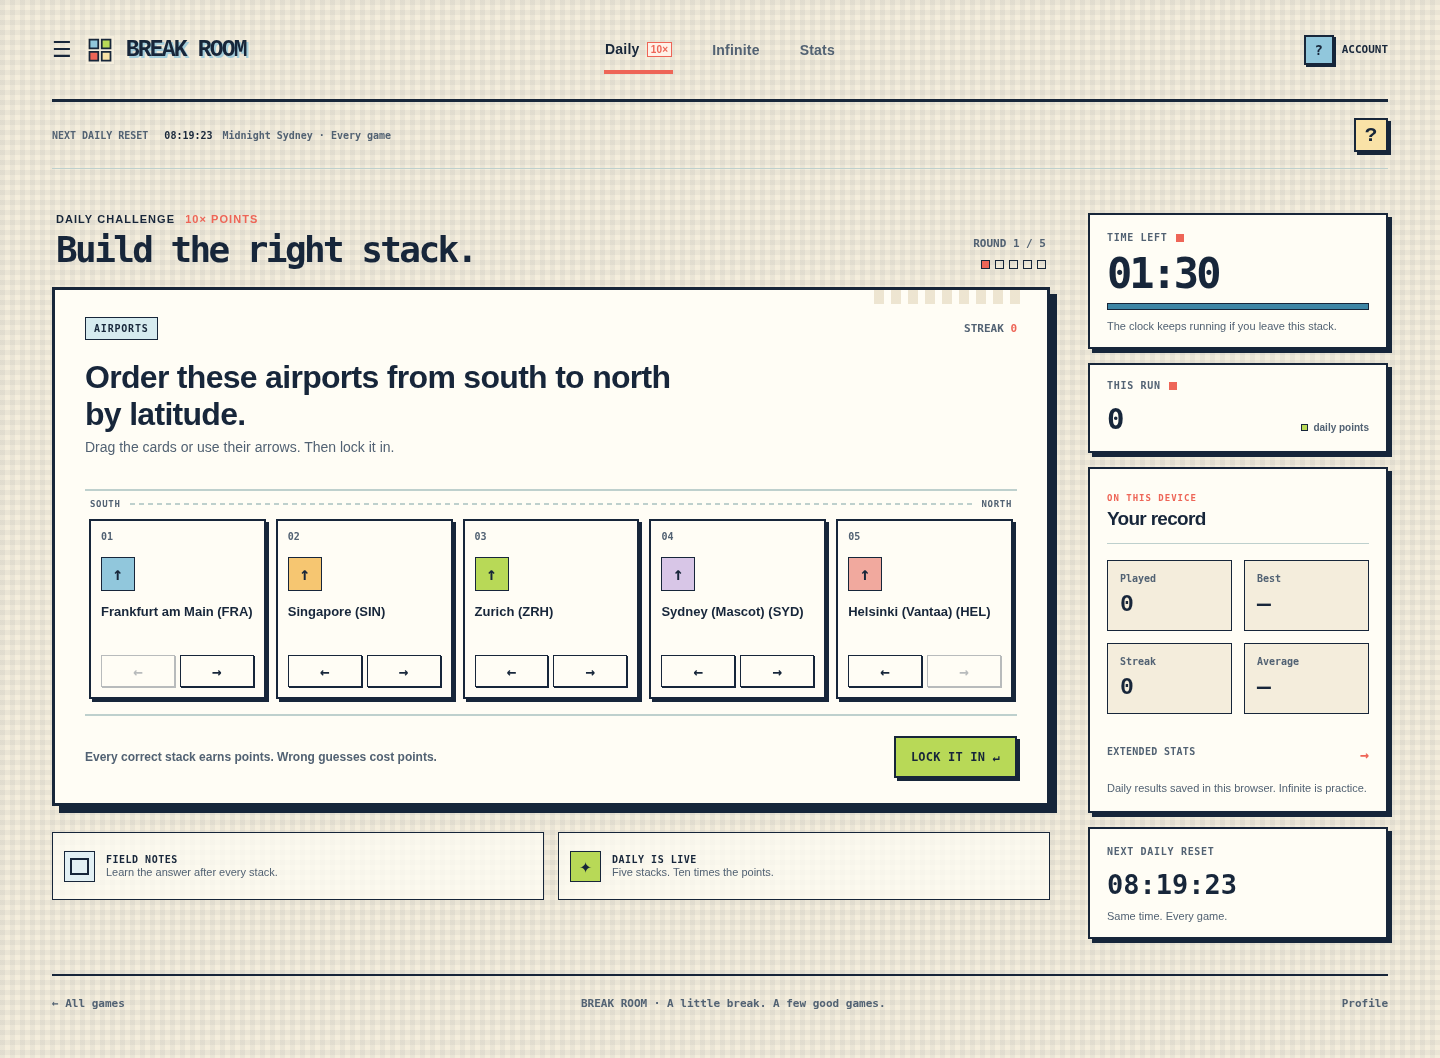
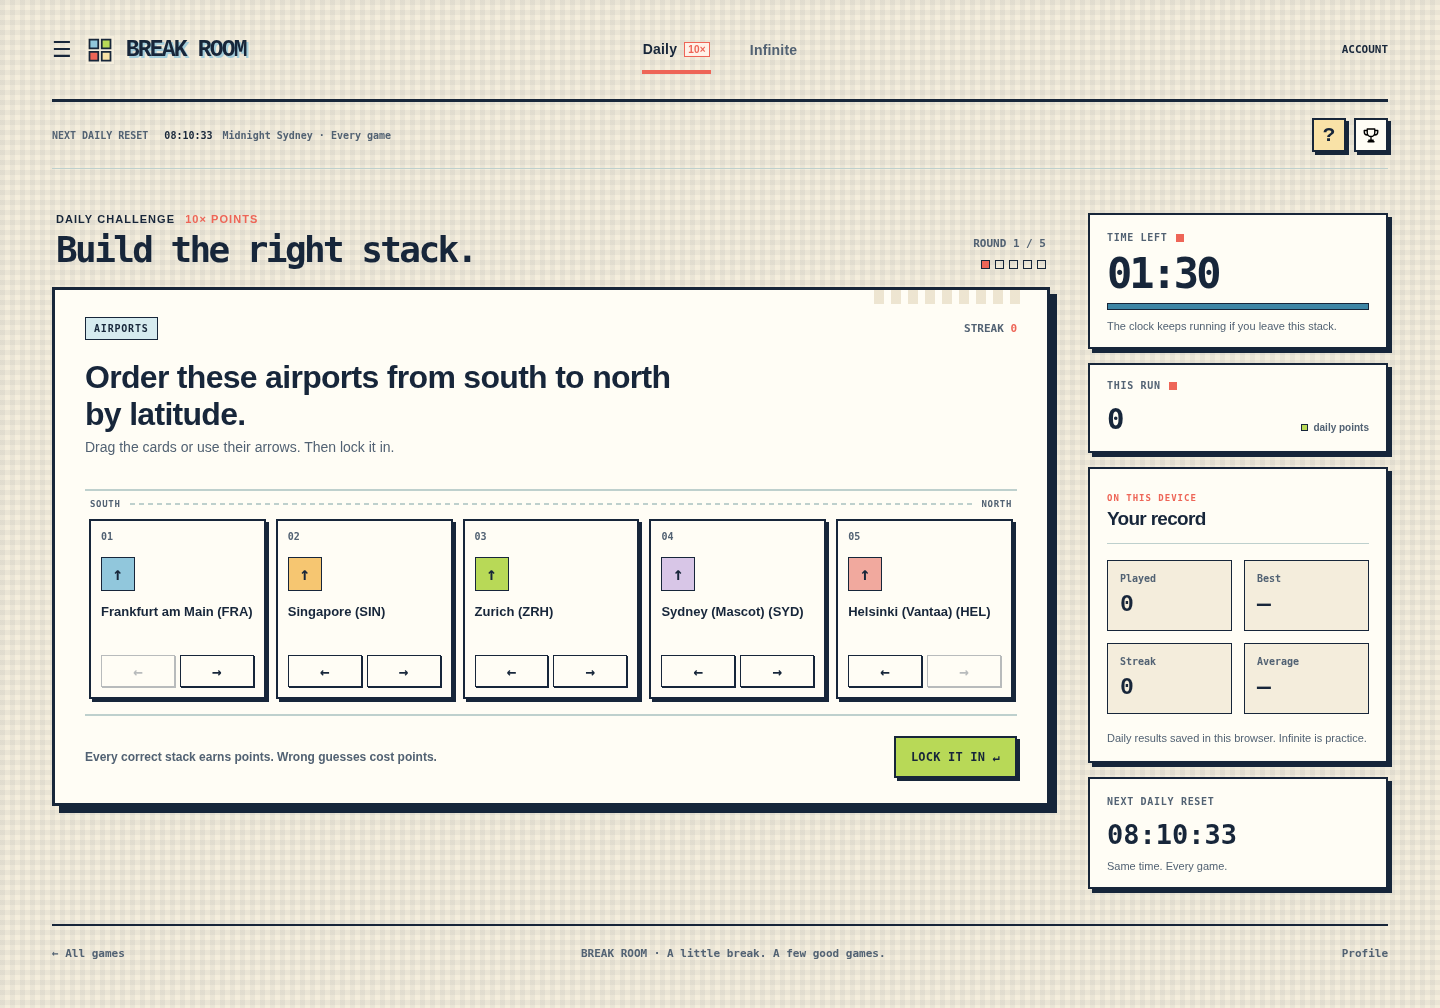
Simplify Stack Up panels and move trophy stats beside help

diff --git a/games/stack-up/index.html b/games/stack-up/index.html
@@ -8,9 +8,9 @@
   <meta name="description" content="Sort five familiar things against the clock. Play a fresh daily challenge or free Infinite practice at Break Room."><link rel="icon" href="../../assets/break-room-icon.svg"><link rel="stylesheet" href="../../stack-layout.css"><link rel="stylesheet" href="stack-up.css"><script src="../../daily-clock.js"></script><script defer="" src="../../navigation.js"></script><script defer src="legacy-stacks.js"></script><script defer="" src="stacks.js"></script><script defer="" src="stack-up.js"></script></head>
   <body>
     <div class="site-frame">
-      <header class="topbar"><div class="header-brand"><button id="game-menu-toggle" type="button" aria-label="Open games menu" aria-controls="game-menu" aria-expanded="false">☰</button><a class="brand" href="../../index.html"><img src="../../assets/break-room-icon.svg" width="28" height="28" alt="">BREAK ROOM</a></div><nav class="main-nav" aria-label="Game mode"><button class="nav-link active" data-mode="daily" type="button" aria-pressed="true">Daily <em>10×</em></button><button class="nav-link" data-mode="infinite" type="button" aria-pressed="false">Infinite</button><button id="stats-open" class="nav-link" type="button">Stats</button></nav><a class="player-chip" href="../../login.html"><span class="mini-avatar">?</span><span>ACCOUNT</span></a></header>
+      <header class="topbar"><div class="header-brand"><button id="game-menu-toggle" type="button" aria-label="Open games menu" aria-controls="game-menu" aria-expanded="false">☰</button><a class="brand" href="../../index.html"><img src="../../assets/break-room-icon.svg" width="28" height="28" alt="">BREAK ROOM</a></div><nav class="main-nav" aria-label="Game mode"><button class="nav-link active" data-mode="daily" type="button" aria-pressed="true">Daily <em>10×</em></button><button class="nav-link" data-mode="infinite" type="button" aria-pressed="false">Infinite</button></nav><a class="player-chip" href="../../login.html"><span>ACCOUNT</span></a></header>
 
-      <div class="utility-strip"><p>NEXT DAILY RESET <strong data-daily-countdown="">--:--:--</strong><span>Midnight Sydney · Every game</span></p><button class="mini-tool" id="help-open" type="button" aria-label="How to play">?</button></div><p id="save-warning" role="status" hidden="">Saving is unavailable in this browser. Keep this tab open to preserve your current run.</p><p id="day-notice" role="status" hidden="">A new daily is ready. Your previous daily has ended.</p><main id="play">
+      <div class="utility-strip"><p>NEXT DAILY RESET <strong data-daily-countdown="">--:--:--</strong><span>Midnight Sydney · Every game</span></p><div class="game-tools"><button class="mini-tool" id="help-open" type="button" aria-label="How to play">?</button><button class="mini-tool stats-tool" id="stats-open" type="button" aria-label="Extended game stats" title="Extended game stats"><img src="../../assets/icons/trophy.svg" alt=""></button></div></div><p id="save-warning" role="status" hidden="">Saving is unavailable in this browser. Keep this tab open to preserve your current run.</p><p id="day-notice" role="status" hidden="">A new daily is ready. Your previous daily has ended.</p><main id="play">
         <section class="intro-screen" id="intro-screen" aria-labelledby="intro-title">
           <div class="intro-copy">
             <p class="intro-kicker"><span></span>A QUICK GAME OF GOOD JUDGEMENT</p>
@@ -73,17 +73,6 @@
               <button id="check-button" class="check-button" type="button">LOCK IT IN <span>↵</span></button>
             </div>
           </section>
-
-          <section class="game-notes">
-            <div class="note-card">
-              <span class="note-icon pixel-book" aria-hidden="true"></span>
-              <p><b>FIELD NOTES</b><br>Learn the answer after every stack.</p>
-            </div>
-            <div class="note-card daily-note" id="daily-note">
-              <span class="note-icon pixel-star" aria-hidden="true">✦</span>
-              <p><b>DAILY IS LIVE</b><br>Five stacks. Ten times the points.</p>
-            </div>
-          </section>
         <section id="daily-summary" class="game-board" hidden="" aria-labelledby="summary-title"><span class="tiny-label">DAILY COMPLETE</span><h2 id="summary-title">A tidy little stack.</h2><p id="summary-score"></p><p id="summary-detail"></p><div class="summary-actions"><button id="summary-copy" class="check-button" type="button">COPY RESULT</button><button id="summary-infinite" class="check-button" type="button">PLAY INFINITE →</button><a class="text-link" href="../../index.html">All games</a></div><p id="share-status" role="status"></p></section></section>
 
         <aside class="side-column" aria-label="Game information">
@@ -100,7 +89,7 @@
             <p><span class="score-dot"></span><span id="score-caption">daily points</span></p>
           </section>
 
-          <section class="leaderboard-card" id="your-record"><div class="leaderboard-heading"><div><span class="tiny-label">ON THIS DEVICE</span><h2>Your record</h2></div></div><dl class="record-grid"><div><dt>Played</dt><dd id="record-played">0</dd></div><div><dt>Best</dt><dd id="record-best">—</dd></div><div><dt>Streak</dt><dd id="record-streak">0</dd></div><div><dt>Average</dt><dd id="record-average">—</dd></div></dl><button class="view-ranks" id="sidebar-stats-open" type="button">EXTENDED STATS <span>→</span></button><p class="local-note">Daily results saved in this browser. Infinite is practice.</p></section>
+          <section class="leaderboard-card" id="your-record"><div class="leaderboard-heading"><div><span class="tiny-label">ON THIS DEVICE</span><h2>Your record</h2></div></div><dl class="record-grid"><div><dt>Played</dt><dd id="record-played">0</dd></div><div><dt>Best</dt><dd id="record-best">—</dd></div><div><dt>Streak</dt><dd id="record-streak">0</dd></div><div><dt>Average</dt><dd id="record-average">—</dd></div></dl><p class="local-note">Daily results saved in this browser. Infinite is practice.</p></section>
         <section class="timer-card"><div class="card-heading">NEXT DAILY RESET</div><div class="reset-clock" data-daily-countdown="">--:--:--</div><p>Same time. Every game.</p></section></aside>
         </div>
       </main>

diff --git a/games/stack-up/stack-up.css b/games/stack-up/stack-up.css
@@ -3,3 +3,5 @@
 @media(max-width:620px){.site-frame{padding:0 16px 26px}.topbar .brand{font-size:18px}.brand img{width:23px;height:23px}.main-nav{justify-content:center}.nav-link{font-size:13px}.utility-strip p{font-size:9px;line-height:1.7}.utility-strip p span{display:block}.utility-strip strong{margin:0 4px}.intro-copy h1{font-size:42px}.intro-art{width:100%;margin-left:0;transform:none}.pixel-board{width:calc(100% - 14px);gap:5px;padding:46px 12px 17px;min-height:220px}.sample-card{padding:8px 4px}.sample-card i{width:23px;height:23px}.art-tag{bottom:0}.game-footer{flex-direction:column;align-items:flex-start}.game-layout{padding-top:28px}.game-board{padding:23px 16px}.mode-strip{gap:12px}.mode-strip h1{font-size:27px}.round-counter{white-space:nowrap}#eyebrow{font-size:9px}.sort-card{min-height:160px}.dialog-card{padding:30px 20px}.record-grid dd{font-size:22px}.summary-actions{flex-direction:column;align-items:stretch}.next-button{width:100%}.card-moves button{min-height:38px}.game-notes{gap:12px}}
 /* Keep the active timer visible while phone users arrange a tall card grid. */
 @media(max-width:620px){.game-layout{display:flex;flex-direction:column;gap:20px}.side-column{display:contents}.game-column{order:1;min-width:0}#timer-card{order:0;position:sticky;top:0;z-index:5;padding:10px 14px;display:grid;grid-template-columns:1fr auto;gap:6px 15px;align-items:center}#timer-card .timer{font-size:30px;margin:0;grid-column:2;grid-row:1/3;letter-spacing:-2px}#timer-card .timer-track{grid-column:1;grid-row:2}#timer-caption{display:none}.score-card{order:2}.leaderboard-card{order:3}.side-column>.timer-card:not(#timer-card){order:4}.game-notes{margin-top:20px}}
+
+.game-tools{display:flex;align-items:center;gap:8px;flex:none}.stats-tool{background:var(--white)}.stats-tool img{width:18px;height:18px;filter:brightness(0);vertical-align:middle}

diff --git a/games/stack-up/stack-up.js b/games/stack-up/stack-up.js
@@ -28,10 +28,9 @@
  function render(){
   const complete=run.status==='complete',s=stack();
   $('daily-summary').hidden=!complete;document.querySelector('.game-column>.game-board').hidden=complete;
-  document.querySelector('.game-notes').hidden=complete;$('timer-card').hidden=complete;
+  $('timer-card').hidden=complete;
   $('eyebrow').innerHTML=mode==='daily'?'DAILY CHALLENGE <span>10× POINTS</span>':'INFINITE MODE <span>FREE PRACTICE</span>';
   $('game-title').textContent=complete?'Daily stack cleared.':'Build the right stack.';
-  $('daily-note').style.display=mode==='daily'?'flex':'none';
   $('score-caption').textContent=mode==='daily'?'daily points':'practice points';$('run-score').textContent=format(run.score);
   $('category-tag').textContent=s.category;$('prompt').textContent=s.prompt;
   document.querySelector('.instructions').textContent='Drag the cards or use their arrows. Then lock it in.';
@@ -81,7 +80,7 @@
  document.querySelectorAll('[data-mode],[data-start-mode]').forEach(b=>b.onclick=()=>start(b.dataset.mode||b.dataset.startMode));
  $('check-button').onclick=check;$('next-button').onclick=next;$('result-close').onclick=closeDialog;
  $('help-open').onclick=e=>openDialog($('help-dialog'),e.currentTarget);
- for(const id of ['stats-open','sidebar-stats-open'])$(id).onclick=e=>{refreshStats();openDialog($('stats-dialog'),e.currentTarget);};
+ $('stats-open').onclick=e=>{refreshStats();openDialog($('stats-dialog'),e.currentTarget);};
  document.querySelectorAll('[data-close]').forEach(b=>b.onclick=closeDialog);
  for(const id of ['result-modal','help-dialog','stats-dialog'])$(id).onclick=e=>{if(e.target===$(id))closeDialog();};
  $('summary-copy').onclick=copy;$('summary-infinite').onclick=()=>start('infinite');
